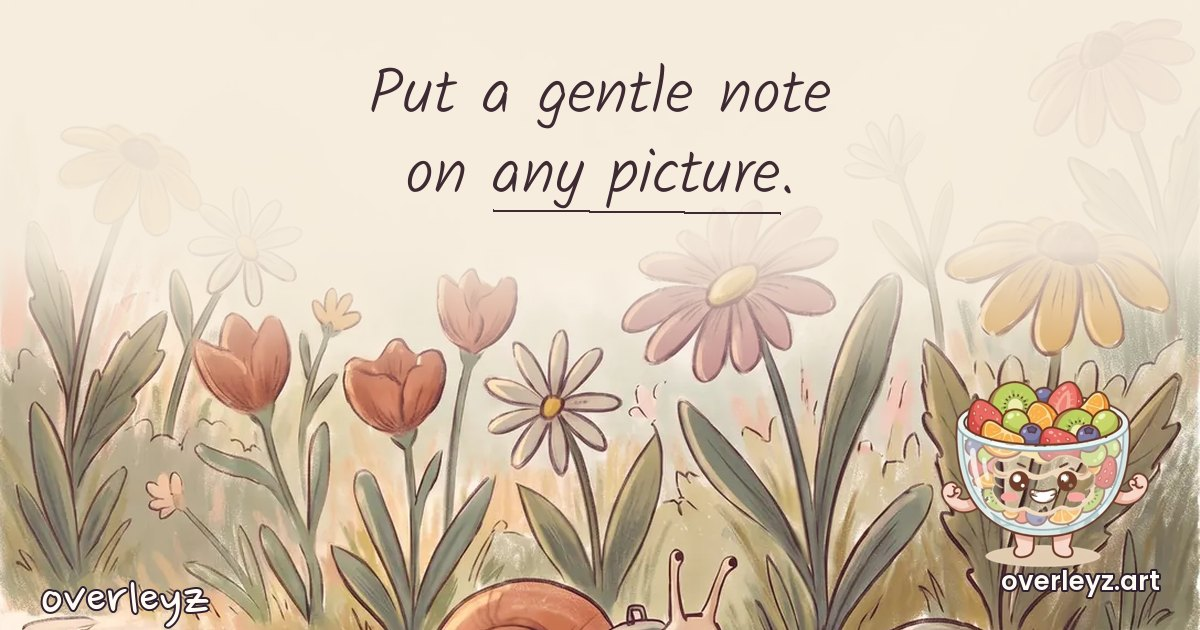
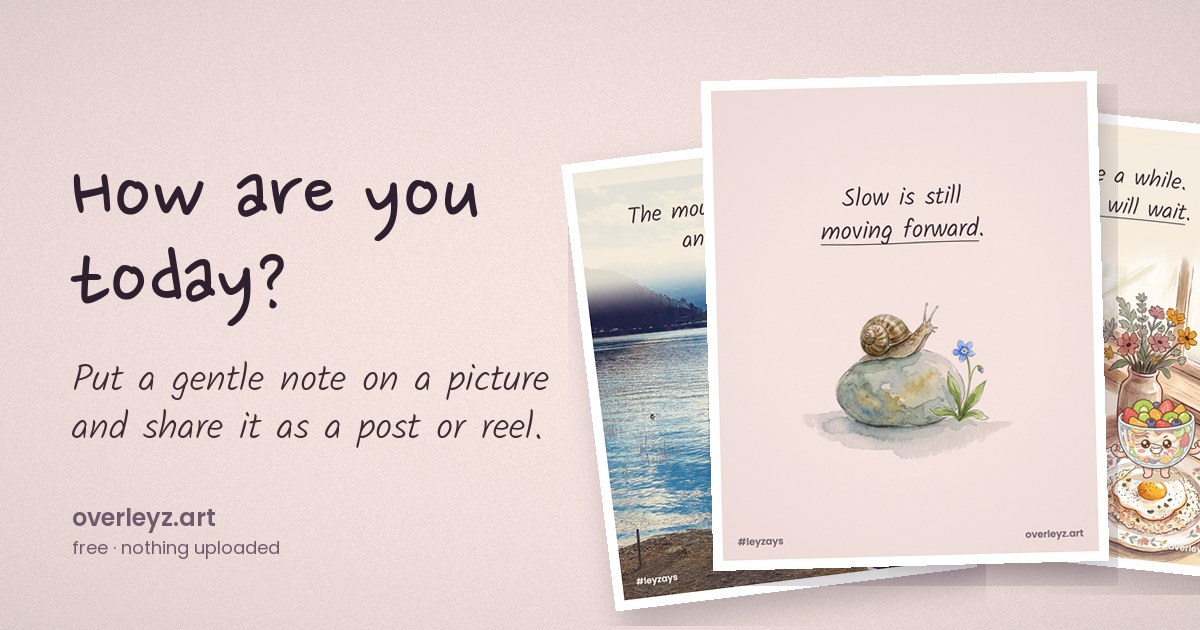
New hero / link-preview image: real overleyz posts on pastel paper
Rendered with the app itself (tools/hero.mjs) so it shows what people make.

diff --git a/public/about.html b/public/about.html
@@ -26,7 +26,7 @@
 
 <main class="about">
   <section class="about-hero">
-    <img src="assets/og.jpg" alt="A painting of a quiet window with a handwritten note on it, made with overleyz" width="1200" height="630">
+    <img src="assets/og.jpg" alt="Three posts made with overleyz: a snail on a stone on blush paper saying Slow is still moving forward, a lake photo with a John Muir quote, and a painted breakfast table with Tutti Frutti" width="1200" height="630">
     <div>
       <h1>A little studio for gentle notes</h1>
       <p class="lead">overleyz puts words on pictures. Choose how you feel, pick a painting, a travel photo or a picture of your own, add a note and a few stickers, and share it as an Instagram post or a short reel.</p>
